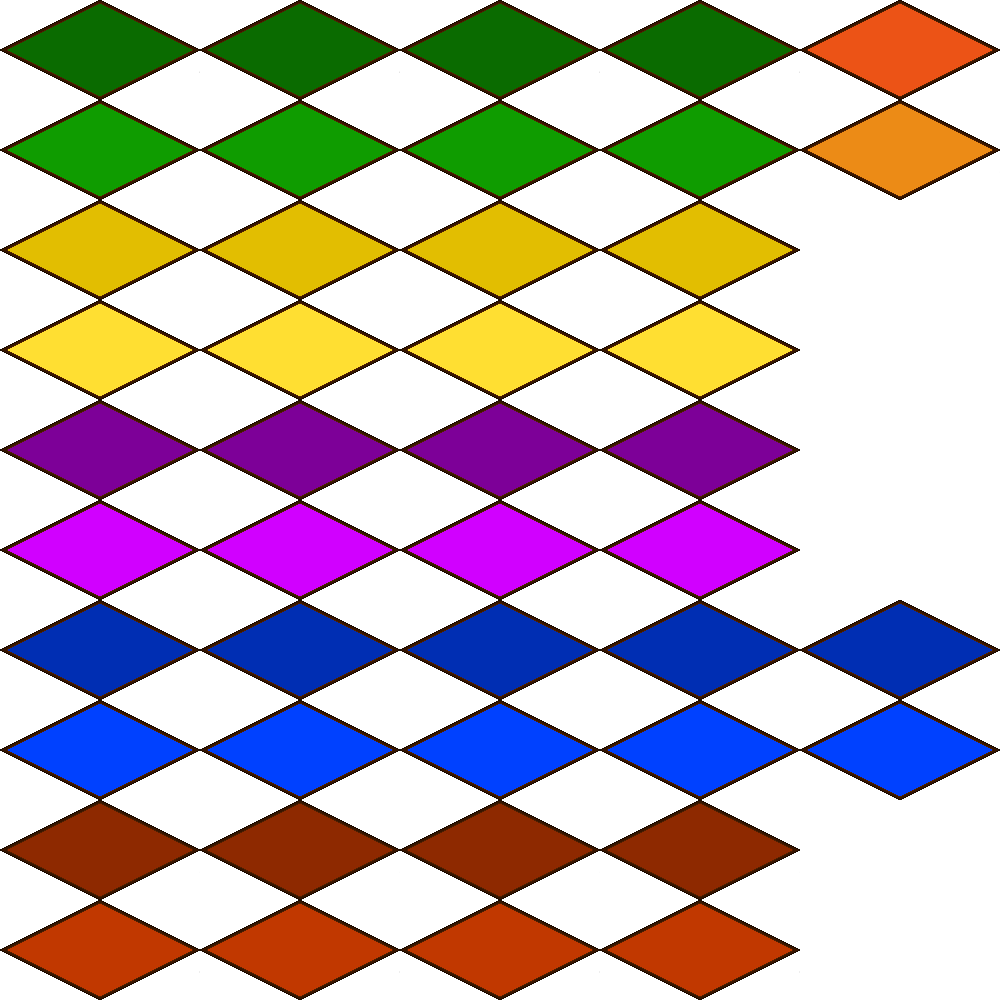
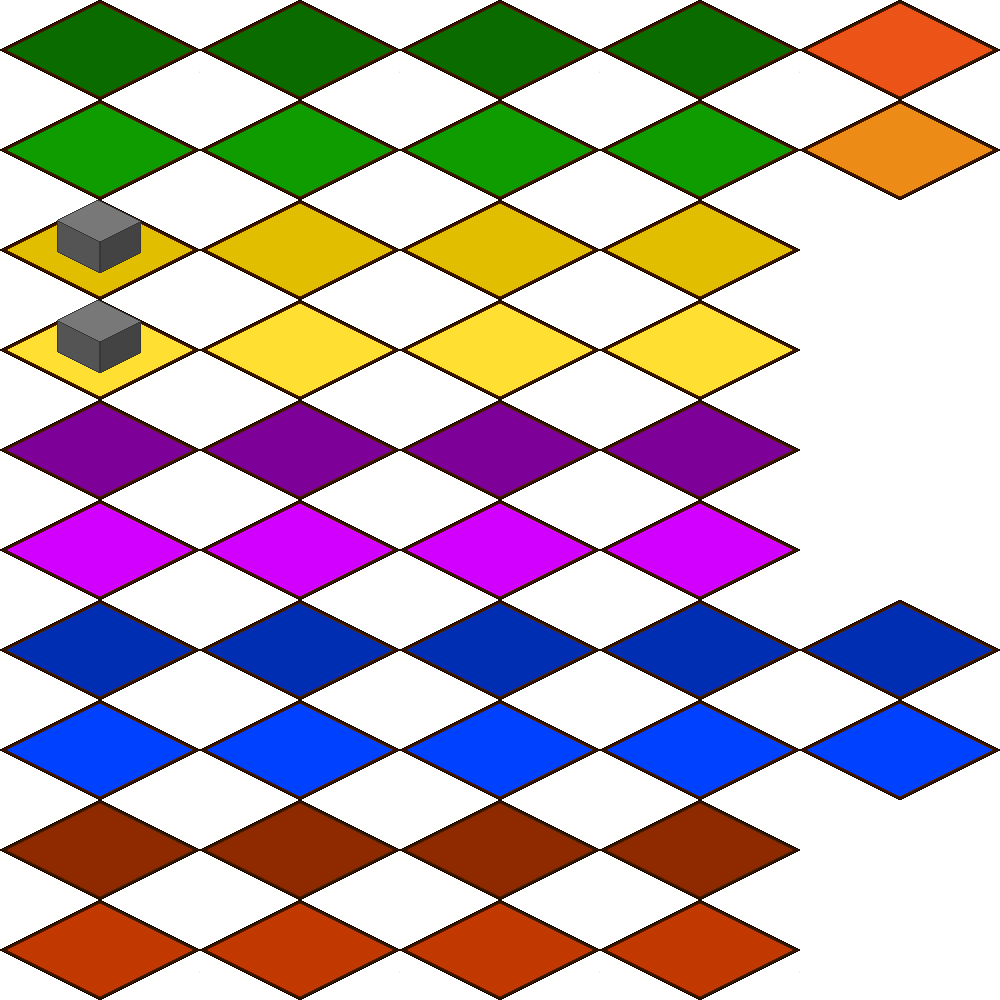
budowanie na siatce - poczatek
### ADDED
- Hologram budowania: Wprowadzono półprzezroczysty podgląd (hologram) budynku pod kursorem myszy podczas próby jego wzniesienia. Hologram zmienia kolor na niebieski (można postawić) lub czerwony (brak możliwości postawienia).
- Zarządzanie stanem budowania: Dodano pola `trzymanyBudynek` oraz `czyBudowa` do klasy `Graphics` wraz z ich inicjalizacją w konstruktorach, a także dodano pomocniczy getter `getPozMysz()` w `BuildingsGrid`.

### CHANGED
- Sygnatura prntSiatka: Rozszerzono metodę renderowania siatki o flagę trybu budowania oraz nazwę trzymanego budynku, aby poprawnie wyświetlać hologram z atlasu.
- Obsługa wejścia (Input Flow): Dodano przechwytywanie kliknięć myszy (lewy przycisk – zatwierdzenie, prawy – anulowanie) w momencie, gdy mysz nie znajduje się nad oknami ImGui.
- Ukrywanie UI: Zaimplementowano tymczasowe ukrywanie niektórych paneli interfejsu w trakcie trwania trybu rozmieszczania budynku.
- Aktualizacja zasobów: Zaktualizowano pliki graficzne atlasu (`grafiki_siatka.png` oraz źródłowy `.xcf`).

### FIXED / IMPORTANT NOTE
- **Prace w toku (WIP):** Ten commit wprowadza wyłącznie wizualną otoczkę, interfejs oraz logikę sterowania myszą dla trybu budowania. **Sam mechanizm stawiania budynków na siatce nie jest jeszcze funkcjonalny** – fizyczne modyfikowanie danych kolonii i faktyczne umieszczanie struktur w grze zostanie zaimplementowane w kolejnych krokach.

Changed region(s): [[0.031, 0.186, 0.155, 0.372]]

diff --git a/src/graphics.cpp b/src/graphics.cpp
@@ -42,8 +42,8 @@ bool WczytajGrafike(const std::string& sciezka, T& obiektSFML) {
 }
 
 
-Graphics::Graphics(unsigned int szer_,unsigned int wys_):szer(szer_),wys(wys_),window(sf::VideoMode({szer_, wys_}), "Colony ++"),czyhelp(false),czyBudynki(false),czyBudowanie(false),wybranaKategoriaBudowa(""),czyBudowanieCategory(false),czyBudowanieWyniki(false),czyNextRound(false),czyNextRound1(false),czyWyburzanie(false),czyWyburzanie1(false),ekran(TypEkranu::MAIN_MENU),czyGra(false),czyLoad(false),czySave(false){}
-Graphics::Graphics():screenSize(sf::VideoMode::getDesktopMode()), window(screenSize, "Colony ++",sf::State::Fullscreen),szer(screenSize.size.x),wys(screenSize.size.y),czyhelp(false),czyBudynki(false),czyBudowanie(false),wybranaKategoriaBudowa(""),czyBudowanieCategory(false),czyBudowanieWyniki(false),czyNextRound(false),czyNextRound1(false),czyWyburzanie(false),czyWyburzanie1(false),ekran(TypEkranu::MAIN_MENU),czyGra(false),czyLoad(false),czySave(false){}
+Graphics::Graphics(unsigned int szer_,unsigned int wys_):szer(szer_),wys(wys_),window(sf::VideoMode({szer_, wys_}), "Colony ++"),czyhelp(false),czyBudynki(false),czyBudowanie(false),wybranaKategoriaBudowa(""),czyBudowanieCategory(false),czyBudowanieWyniki(false),czyNextRound(false),czyNextRound1(false),czyWyburzanie(false),czyWyburzanie1(false),ekran(TypEkranu::MAIN_MENU),czyGra(false),czyLoad(false),czySave(false),czyBudowa(false){}
+Graphics::Graphics():screenSize(sf::VideoMode::getDesktopMode()), window(screenSize, "Colony ++",sf::State::Fullscreen),szer(screenSize.size.x),wys(screenSize.size.y),czyhelp(false),czyBudynki(false),czyBudowanie(false),wybranaKategoriaBudowa(""),czyBudowanieCategory(false),czyBudowanieWyniki(false),czyNextRound(false),czyNextRound1(false),czyWyburzanie(false),czyWyburzanie1(false),ekran(TypEkranu::MAIN_MENU),czyGra(false),czyLoad(false),czySave(false),czyBudowa(false){}
 
 /**
  * @brief Tymczasowe wyświeltanie głównego menu z przyciskami.
@@ -716,6 +716,18 @@ void Graphics::prntBudowanieWyniki(Game& gra) {
 }
 
 
+void Graphics::budowanie(BuildingInfo info,Game& gra){
+    //Tutaj jakas logika z najechaniem i kliknięcime (mam fucnkje w BuildingsGrid ktora zwraca id najechanego kafelka)
+    czyBudowa=true;
+    trzymanyBudynek = info;
+
+
+
+    //ostatniWynik=gra.UIbuild(info);
+    czyBudowa=false;
+}
+
+
 /**
  * @brief Funkcja wyswietlajaca informacje o dostepnych budynkach do zbudowania z danej kategorii.
  * 
@@ -764,6 +776,8 @@ void Graphics::prntBuildCategory(const string& cat, const Colony& kolonia, const
                 ImGui::TableNextRow();
                 ImGui::TableNextColumn(); 
                 if (ImGui::Selectable(nazwa_.c_str())) {
+                    //O to na dole zamienic tak aby dzialalo!
+                    // FIXME
                     ostatniWynik =gra.UIbuild(info);
                     czyBudowanieWyniki=true;
                 }
@@ -1172,6 +1186,7 @@ void Graphics::prntUstawienia(){
                 }
             }
         }
+        
     } 
     ImGui::SFML::Update(window, deltaClock.restart());
     
@@ -1592,6 +1607,26 @@ void Graphics::prntGRA(const Colony& kolonia,const map<string, BuildingInfo>& ba
                 }
             }
             
+            if (const auto* mouseButtonPressed = event->getIf<sf::Event::MouseButtonPressed>()) {
+        
+        ImGuiIO& io = ImGui::GetIO();
+        if (!io.WantCaptureMouse) {
+            if (czyBudowa) {
+                if (mouseButtonPressed->button == sf::Mouse::Button::Left) {
+                    pair<int,int> kliknietePole = siatka.getPozMysz();
+                    
+                    if (kliknietePole.first != -1 && kliknietePole.second != -1) {
+                        gra.UIbuild(trzymanyBudynek);
+                        czyBudowa = false; 
+                    }
+                }
+                else if (mouseButtonPressed->button == sf::Mouse::Button::Right) {
+                    czyBudowa = false;
+                }
+            }
+        }
+    }
+
         }
         
         ImGui::SFML::Update(window, deltaClock.restart());
@@ -1600,32 +1635,33 @@ void Graphics::prntGRA(const Colony& kolonia,const map<string, BuildingInfo>& ba
         prntMenu();
         prntStatystyki(kolonia,bazaDanych);
         prntNextRoundButton();
-
-        if(czyhelp){
-            prntPomoc();
-        }
-
-        if(czyBudynki){
-            prntBudynki(kolonia, bazaDanych,gra);
-        }
-
-        if(czyBudowanie){
-            prntBudowanie(kolonia, bazaDanych,gra);
-        }
-        if(czyBudowanieCategory){
-            prntBuildCategory(wybranaKategoriaBudowa,kolonia,bazaDanych,gra);
-        }
-        if(czyBudowanieWyniki){
-            prntBudowanieWyniki(gra);
-        }
-        if(czyNextRound){
-            prntCzyNextRound(kolonia, bazaDanych,gra);
-        }
-        if(czyNextRound1){
-            prntNextRound(kolonia, bazaDanych,gra);
-        }
-        if(czyWyburzanie1){
-            prntWyburz();
+        if(!czyBudowa){
+            if(czyhelp){
+                prntPomoc();
+            }
+    
+            if(czyBudynki){
+                prntBudynki(kolonia, bazaDanych,gra);
+            }
+    
+            if(czyBudowanie){
+                prntBudowanie(kolonia, bazaDanych,gra);
+            }
+            if(czyBudowanieCategory){
+                prntBuildCategory(wybranaKategoriaBudowa,kolonia,bazaDanych,gra);
+            }
+            if(czyBudowanieWyniki){
+                prntBudowanieWyniki(gra);
+            }
+            if(czyNextRound){
+                prntCzyNextRound(kolonia, bazaDanych,gra);
+            }
+            if(czyNextRound1){
+                prntNextRound(kolonia, bazaDanych,gra);
+            }
+            if(czyWyburzanie1){
+                prntWyburz();
+            }
         }
 }
 
@@ -1665,7 +1701,7 @@ void Graphics::prntAll(const Colony& kolonia,const map<string, BuildingInfo>& ba
         ImVec2 pozycjaMyszy = ImGui::GetMousePos();
         if(ekran==TypEkranu::GAME){
 
-            siatka.prntSiatka(window,pozycjaMyszy,bazaDanych);
+            siatka.prntSiatka(window,pozycjaMyszy,bazaDanych,czyBudowa,trzymanyBudynek.nazwa);
         }
         
         ImGui::SFML::Render(window);
@@ -1673,3 +1709,9 @@ void Graphics::prntAll(const Colony& kolonia,const map<string, BuildingInfo>& ba
     }
     ImGui::SFML::Shutdown();
 }
+
+
+
+
+bool Graphics::getCzyBudowa(){return czyBudowa;}
+BuildingInfo Graphics::getTrzymanyBudynek(){return trzymanyBudynek;}

diff --git a/src/buildingsGrid.cpp b/src/buildingsGrid.cpp
@@ -157,7 +157,6 @@ void BuildingsGrid::czyNajechane(ImVec2& poz){
     if(!sprawdzMysz(poz)){
         poz_mysz = {-1, -1};
     }
-
 }
 
 /**
@@ -165,7 +164,7 @@ void BuildingsGrid::czyNajechane(ImVec2& poz){
  * 
  * @param window okienko
  */
-void BuildingsGrid::prntSiatka(sf::RenderWindow& window,ImVec2& poz,const map<string, BuildingInfo>& bazaDanych ){
+void BuildingsGrid::prntSiatka(sf::RenderWindow& window,ImVec2& poz,const map<string, BuildingInfo>& bazaDanych,bool czyBudowanie, string nazwaTrzymanego ){
     sf::Sprite kafelek_budynek(atlas_budynkow);
     kafelek_budynek.setOrigin(sf::Vector2f(kafelek_x / 2.0f, kafelek_y / 2.0f));
 
@@ -180,10 +179,10 @@ void BuildingsGrid::prntSiatka(sf::RenderWindow& window,ImVec2& poz,const map<st
 
             string nazwa_kafelka=siatka[i][j].nazwa;
             for(auto &c : nazwa_kafelka) c = tolower(c);
-
             if(siatka[i][j].typ==TypKafelka::BRAK){
                 continue;
-            }else{
+            }
+            else{
                 float X=0;
                 if(i%2==0){
                     X=siatka_begin_x+j*(kafelek_x);
@@ -219,9 +218,37 @@ void BuildingsGrid::prntSiatka(sf::RenderWindow& window,ImVec2& poz,const map<st
                 kafelek_budynek.setPosition(sf::Vector2f(X, Y));
                 window.draw(kafelek_budynek);
 
+                //Rysowanie tego budowaniowego
+                if (czyBudowanie && i == poz_mysz.first && j == poz_mysz.second) {
+                    string nazw=nazwaTrzymanego;
+                    for(auto &a:nazw) a =tolower(a);
 
+                    sf::Sprite hologram(atlas_budynkow); 
+                    hologram.setOrigin(sf::Vector2f(kafelek_x / 2.0f, kafelek_y / 2.0f));
+                    hologram.setPosition(sf::Vector2f(X, Y));
+    
+                    auto iterator_bazy = bazaDanych.find(nazwaTrzymanego);
+                    if (iterator_bazy != bazaDanych.end()) {
+                        int h_X = iterator_bazy->second.X;
+                        int h_Y = iterator_bazy->second.Y;
+            
+                        hologram.setTextureRect(sf::IntRect({h_X,h_Y},{kafelek_x, kafelek_y}));
 
+                        if (siatka[i][j].typ == TypKafelka::PUSTY) {
+                            // Można budować: Niebieski i przezroczysty 
+                            hologram.setColor(sf::Color(100, 150, 255, 180)); 
+                        } else {
+                            // Zajęte lub niedostępne: Czerwony
+                            hologram.setColor(sf::Color(255, 100, 100, 180)); 
+                        }
+            
+                        window.draw(hologram);
+                    }
+                }
             }
         }
     }
 }
+
+
+pair<int,int> BuildingsGrid::getPozMysz() const { return poz_mysz; }

diff --git a/src/buildingsGrid.h b/src/buildingsGrid.h
@@ -21,9 +21,9 @@ class BuildingsGrid{
     private:
 
         vector<vector<DaneKafelek>> siatka;
+
+        //puste kafelki - do usunieca
         map<string,sf::Texture> texturyBudynki;
-        
-        //puste kafelki
         sf::Texture kafelek_tex;
         sf::Texture kafelek_najechany_tex;
 
@@ -46,10 +46,12 @@ class BuildingsGrid{
 
         BuildingsGrid();
         ~BuildingsGrid(){};
-        void prntSiatka(sf::RenderWindow& window,ImVec2& poz,const map<string, BuildingInfo>& bazaDanych);
+        void prntSiatka(sf::RenderWindow& window,ImVec2& poz,const map<string, BuildingInfo>& bazaDanych,bool czyBudowanie, string nazwaTrzymanego);
         bool sprawdzMysz(ImVec2& poz);
         void czyNajechane(ImVec2& poz);
         bool wczytajTextury(const Colony& kolonia,const map<string, BuildingInfo>& bazaDanych);
         void wczytajSiatkaDane(const Colony& kolonia,const map<string,BuildingInfo>& bazaDanych);
+
+        pair<int,int> getPozMysz() const;
     };
 #endif

diff --git a/src/graphics.h b/src/graphics.h
@@ -43,6 +43,10 @@ class Graphics{
         bool czyNextRound1;
         bool czyWyburzanie;
         bool czyWyburzanie1;
+        
+        //Zamieszanie z budowaniem!
+        BuildingInfo trzymanyBudynek;
+        bool czyBudowa;
 
         bool czyLoad;
         bool czySave;
@@ -80,6 +84,10 @@ class Graphics{
         void prntUstawienia();
         void prntCredits();
         void prntLoad(Game& gra);
+        void budowanie(BuildingInfo info,Game& gra);
+
+        bool getCzyBudowa();
+        BuildingInfo getTrzymanyBudynek();
     };
 
 #endif